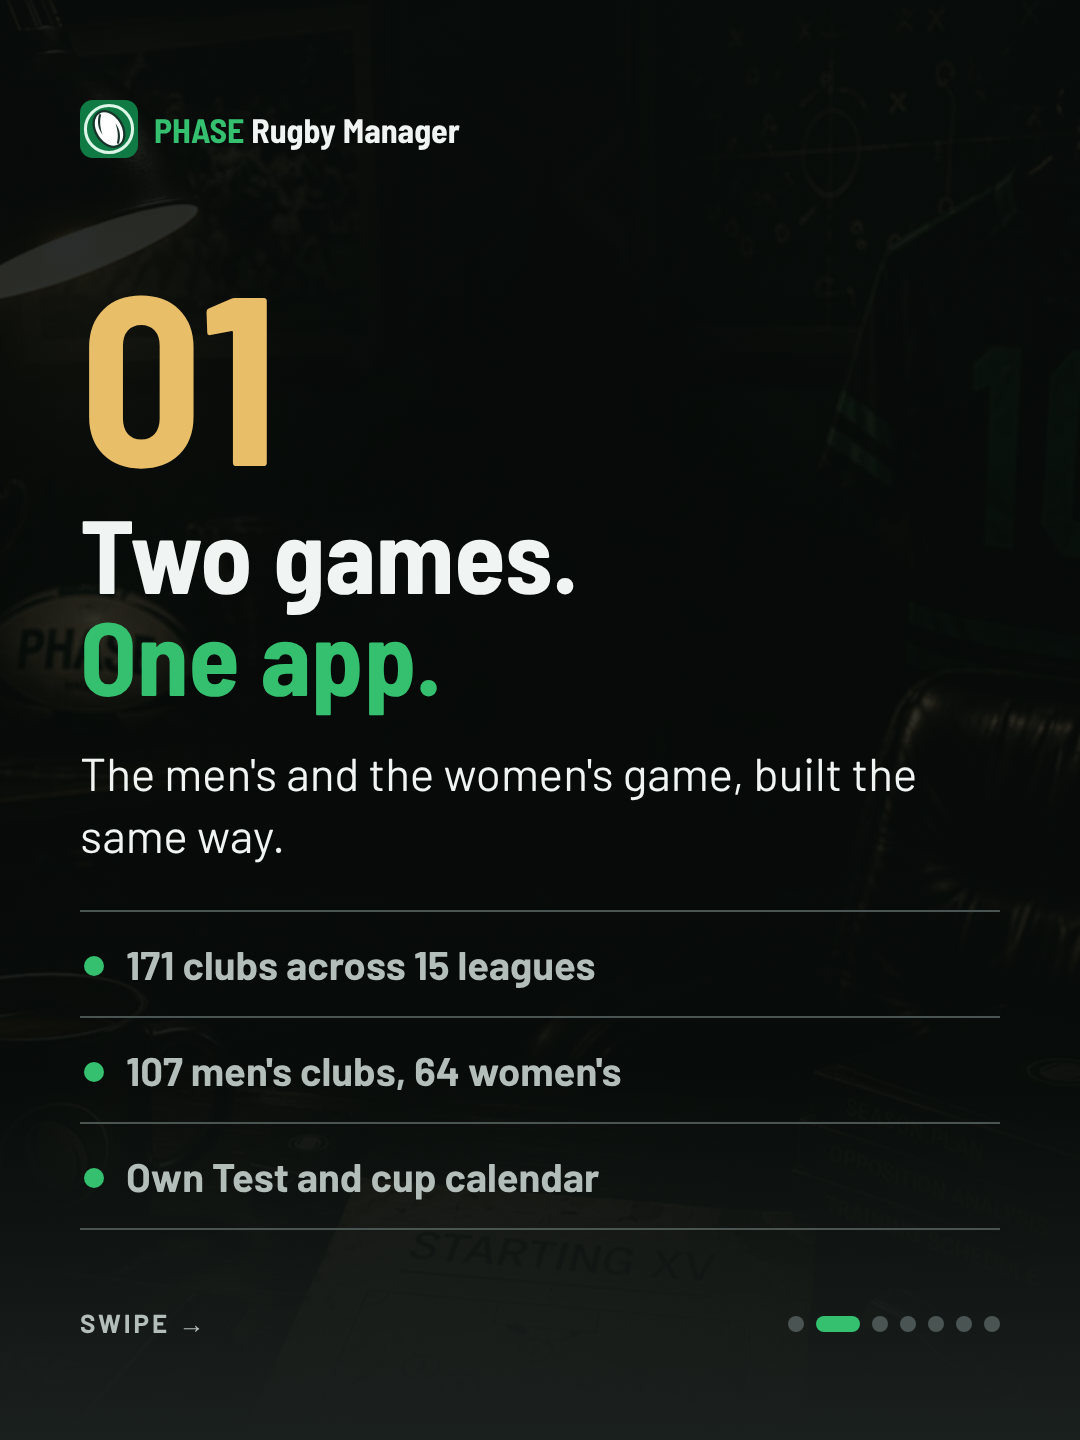
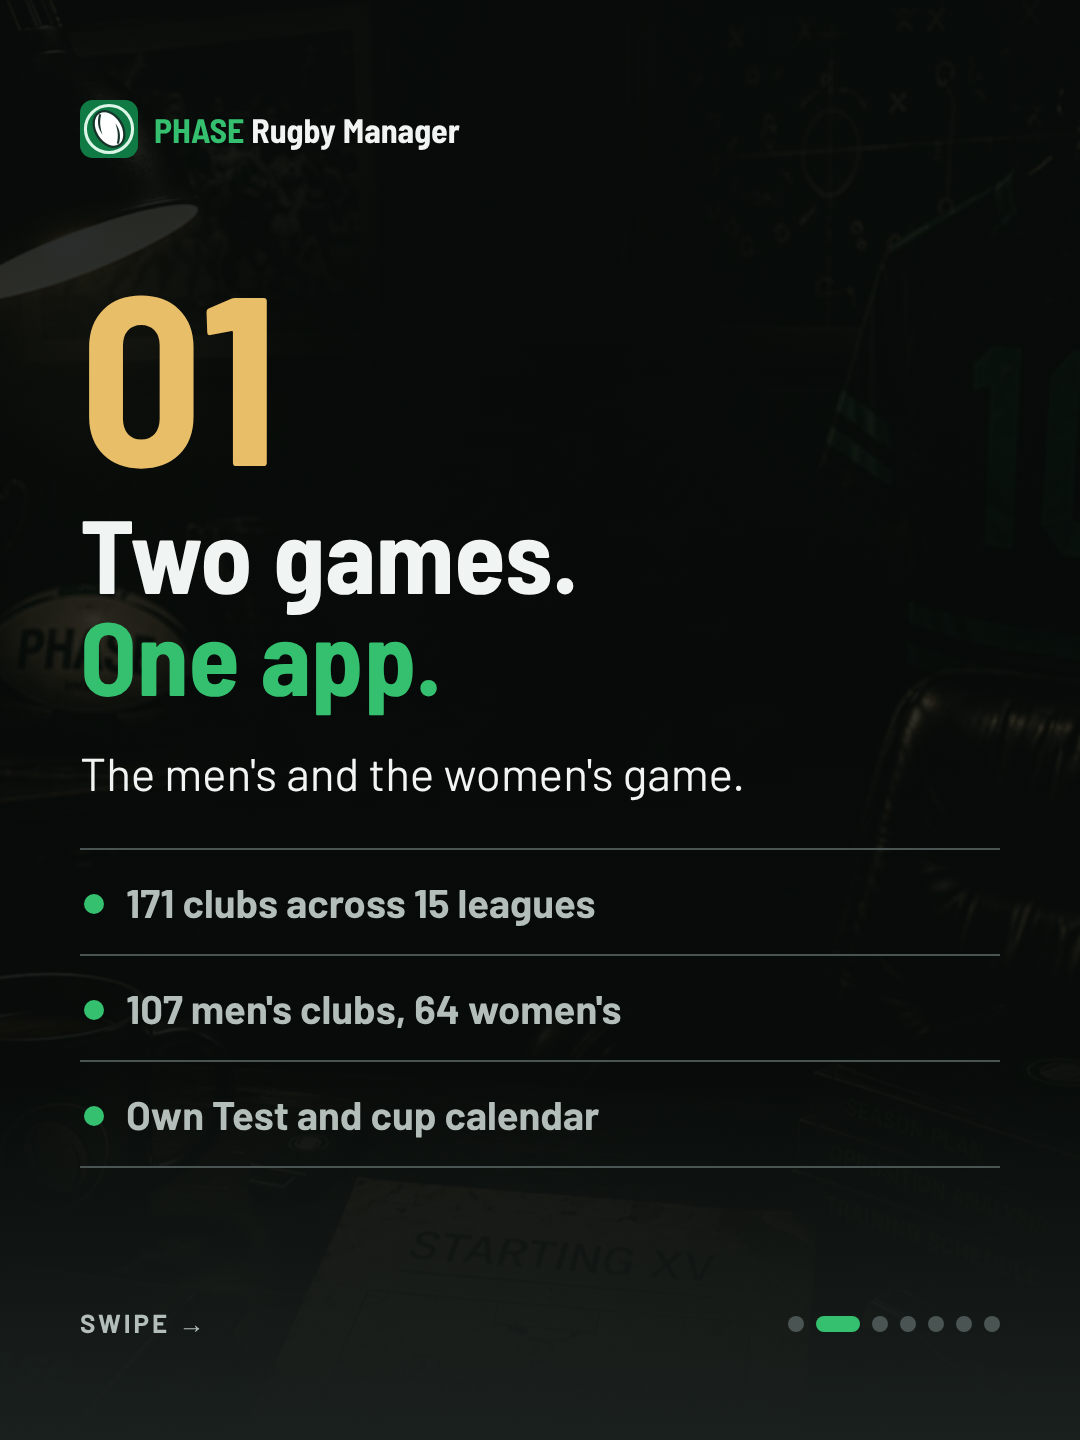
Carousel: trim slide 01 intro line
Claude-Session: https://claude.ai/code/session_01SkkDyBEzPXwLzKDjPnHoVw

Changed region(s): [[0.0611, 0.5625, 0.5806, 0.8438], [0.7028, 0.5312, 0.8556, 0.5625], [0.0611, 0.8125, 0.0917, 0.8438]]

diff --git a/art/social/carousel-5-best/carousel.html b/art/social/carousel-5-best/carousel.html
@@ -59,7 +59,7 @@ body{background:#000}
   <div class="brand"><img src="../../../landing/img/icon.svg" alt=""><span><b>PHASE</b> Rugby Manager</span></div>
   <div class="num">01</div>
   <div class="title">Two games.<br><em>One app.</em></div>
-  <p class="body">The men's and the women's game, built the same way.</p>
+  <p class="body">The men's and the women's game.</p>
   <ul class="list"><li>171 clubs across 15 leagues</li><li>107 men's clubs, 64 women's</li><li>Own Test and cup calendar</li></ul>
   <div class="foot"><span>Swipe &rarr;</span><span class="dots"><i></i><i class="on"></i><i></i><i></i><i></i><i></i><i></i></span></div>
 </div></section>
